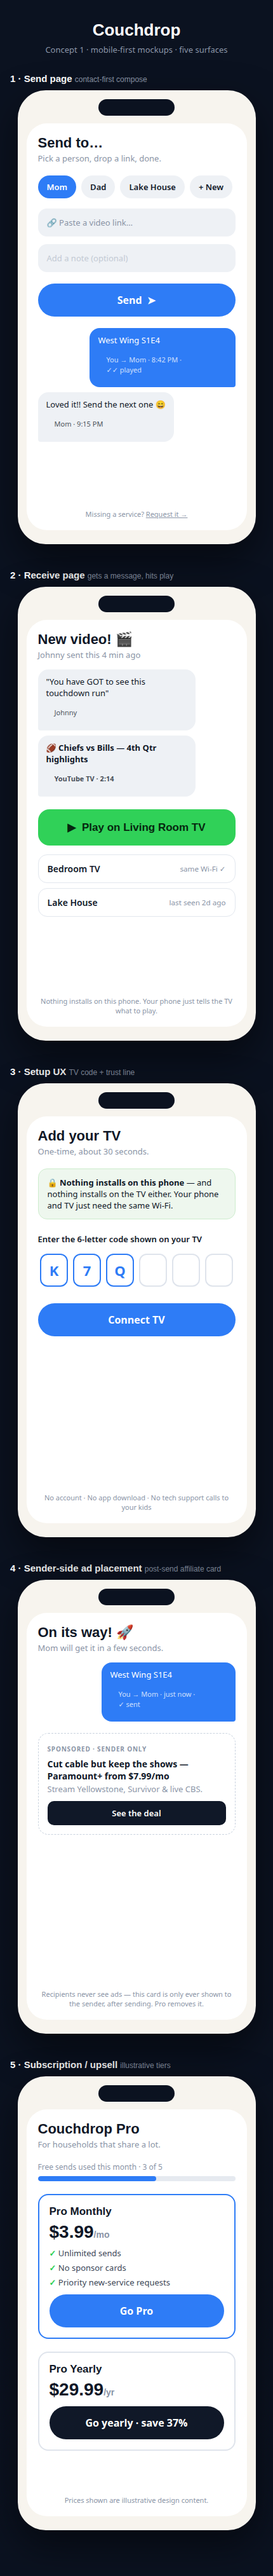
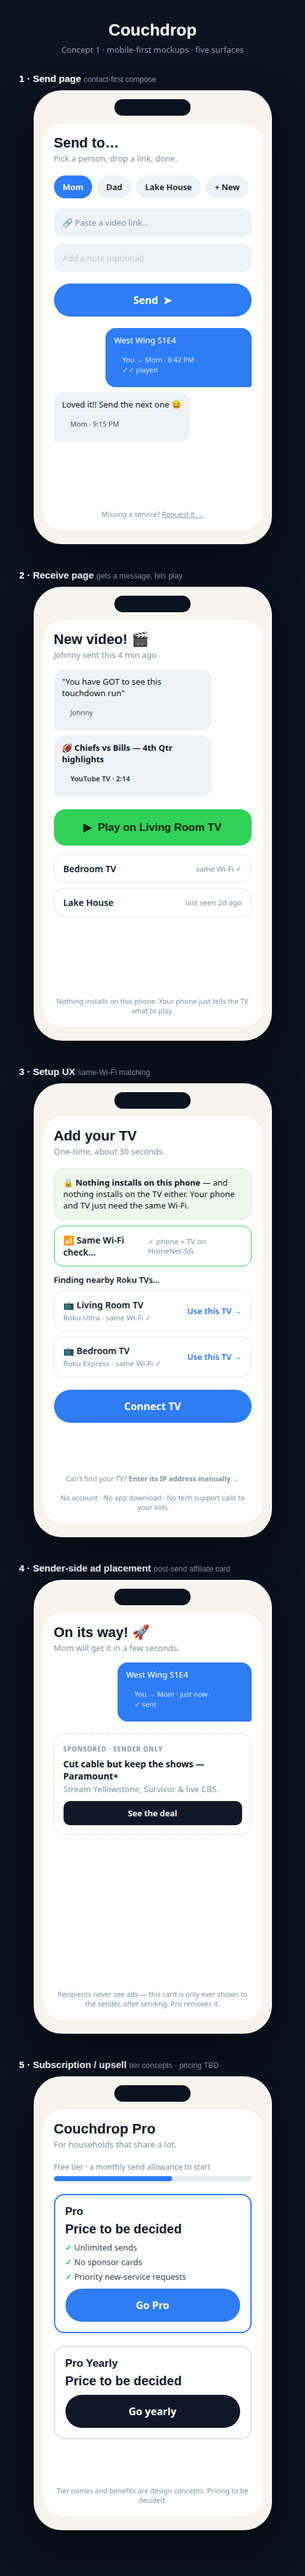
Mockups: v1-fit corrections (same-Wi-Fi setup, neutral pricing, priceless affiliate cards)

diff --git a/design/couchdrop-mockups.html b/design/couchdrop-mockups.html
@@ -79,34 +79,36 @@
   <div class="foot">Nothing installs on this phone. Your phone just tells the TV what to play.</div>
 </div></div></div>
 
-<div class="surface"><h2>3 · Setup UX <span>TV code + trust line</span></h2>
+<div class="surface"><h2>3 · Setup UX <span>same-Wi-Fi matching</span></h2>
 <div class="phone"><div class="notch"></div><div class="screen">
   <div class="hdr"><h3>Add your TV</h3><p>One-time, about 30 seconds.</p></div>
   <div class="trust">🔒 <b>Nothing installs on this phone</b> — and nothing installs on the TV either. Your phone and TV just need the same Wi-Fi.</div>
-  <p style="padding:12px 18px 0;font-size:13px;font-weight:600">Enter the 6-letter code shown on your TV</p>
-  <div class="codebox"><i class="fill">K</i><i class="fill">7</i><i class="fill">Q</i><i></i><i></i><i></i></div>
+  <div class="tvopt" style="border-color:var(--green)"><span>📶 Same Wi-Fi check…</span><small>✓ phone + TV on HomeNet-5G</small></div>
+  <p style="padding:4px 18px 8px;font-size:13px;font-weight:600">Finding nearby Roku TVs…</p>
+  <div class="tvopt"><span>📺 Living Room TV<br><small>Roku Ultra · same Wi-Fi ✓</small></span><span style="color:var(--blue);font-size:13px">Use this TV →</span></div>
+  <div class="tvopt"><span>📺 Bedroom TV<br><small>Roku Express · same Wi-Fi ✓</small></span><span style="color:var(--blue);font-size:13px">Use this TV →</span></div>
   <div class="sendbtn">Connect TV</div>
-  <div class="foot">No account · No app download · No tech support calls to your kids</div>
+  <div class="foot">Can't find your TV? <b>Enter its IP address manually →</b><br><br>No account · No app download · No tech support calls to your kids</div>
 </div></div></div>
 
 <div class="surface"><h2>4 · Sender-side ad placement <span>post-send affiliate card</span></h2>
 <div class="phone"><div class="notch"></div><div class="screen">
   <div class="hdr"><h3>On its way! 🚀</h3><p>Mom will get it in a few seconds.</p></div>
   <div class="thread"><div class="msg me">West Wing S1E4<div class="msg meta">You → Mom · just now · ✓ sent</div></div></div>
-  <div class="adcard"><span class="tag">SPONSORED · SENDER ONLY</span><b>Cut cable but keep the shows — Paramount+ from $7.99/mo</b><span style="color:var(--slate)">Stream Yellowstone, Survivor &amp; live CBS.</span><div class="cta">See the deal</div></div>
+  <div class="adcard"><span class="tag">SPONSORED · SENDER ONLY</span><b>Cut cable but keep the shows — Paramount+</b><span style="color:var(--slate)">Stream Yellowstone, Survivor &amp; live CBS.</span><div class="cta">See the deal</div></div>
   <div class="foot">Recipients never see ads — this card is only ever shown to the sender, after sending. Pro removes it.</div>
 </div></div></div>
 
-<div class="surface"><h2>5 · Subscription / upsell <span>illustrative tiers</span></h2>
+<div class="surface"><h2>5 · Subscription / upsell <span>tier concepts · pricing TBD</span></h2>
 <div class="phone"><div class="notch"></div><div class="screen">
   <div class="hdr"><h3>Couchdrop Pro</h3><p>For households that share a lot.</p></div>
-  <div class="meter">Free sends used this month · 3 of 5<div class="bar"><i></i></div></div>
-  <div class="plan"><h4>Pro Monthly</h4><div class="price">$3.99<span style="font-size:14px;color:var(--slate)">/mo</span></div>
+  <div class="meter">Free tier · a monthly send allowance to start<div class="bar"><i></i></div></div>
+  <div class="plan"><h4>Pro</h4><div class="price" style="font-size:20px">Price to be decided</div>
     <ul><li>Unlimited sends</li><li>No sponsor cards</li><li>Priority new-service requests</li></ul>
     <div class="sendbtn" style="margin:10px 0 0">Go Pro</div></div>
-  <div class="plan" style="border-color:#dfe4ec"><h4>Pro Yearly</h4><div class="price">$29.99<span style="font-size:14px;color:var(--slate)">/yr</span></div>
-    <div class="sendbtn" style="margin:10px 0 0;background:var(--ink)">Go yearly · save 37%</div></div>
-  <div class="foot">Prices shown are illustrative design content.</div>
+  <div class="plan" style="border-color:#dfe4ec"><h4>Pro Yearly</h4><div class="price" style="font-size:20px">Price to be decided</div>
+    <div class="sendbtn" style="margin:10px 0 0;background:var(--ink)">Go yearly</div></div>
+  <div class="foot">Tier names and benefits are design concepts. Pricing to be decided.</div>
 </div></div></div>
 
 </body></html>

diff --git a/design/primetime-mockups.html b/design/primetime-mockups.html
@@ -92,10 +92,13 @@
   <div class="hdr"><h3>Tune in<br>your TV.</h3><p>Three steps, no downloads.</p></div>
   <div class="steps">
     <div class="step"><div class="n">1</div><p><b>Same Wi-Fi.</b> Phone and TV on the same network — that's the whole trick.</p></div>
-    <div class="step"><div class="n">2</div><p><b>Read the code</b> on your TV screen:</p></div>
+    <div class="step"><div class="n">2</div><p><b>We find your Roku.</b> Pick it from the list — no code, no typing.</p></div>
   </div>
-  <div class="code">K 7 Q 2 X A</div>
-  <div class="steps"><div class="step"><div class="n">3</div><p><b>Hit connect.</b> Done forever — the TV remembers you.</p></div></div>
+  <div style="padding:0 20px;display:flex;flex-direction:column;gap:8px">
+    <div class="tv sel"><span>📺 Living Room TV<br><small>Roku Ultra · same Wi-Fi ✓</small></span><span style="color:var(--amber)">✓</span></div>
+    <div class="tv"><span>📺 Bedroom TV<br><small>Roku Express · same Wi-Fi ✓</small></span></div>
+  </div>
+  <div class="steps"><div class="step"><div class="n">3</div><p><b>Hit connect.</b> Done forever — the TV remembers you. Can't find it? Enter the TV's IP manually.</p></div></div>
   <div class="cta">CONNECT TV</div>
   <div class="foot">Nothing installs. Not on the phone, not on the TV.</div>
 </div></div></div>
@@ -104,20 +107,20 @@
 <div class="phone"><div class="notch"></div><div class="screen">
   <div class="kicker" style="color:var(--green,#30D158)">✓ TRANSMISSION COMPLETE</div>
   <div class="hdr"><h3>It's on<br>the guide.</h3><p>Mom's TV gets it in a few seconds.</p></div>
-  <div class="adcard"><span class="tag">SPONSORED · SHOWN TO SENDERS ONLY</span><b>Hulu (With Ads) — $9.99/mo</b><p>Thousands of shows the night after they air. Start your trial.</p><div class="cta2">Claim the offer</div></div>
+  <div class="adcard"><span class="tag">SPONSORED · SHOWN TO SENDERS ONLY</span><b>Hulu (With Ads) — the shows everyone's talking about</b><p>Thousands of shows the night after they air. Start your trial.</p><div class="cta2">Claim the offer</div></div>
   <div class="foot">Recipients never see sponsor cards — the receive flow stays ad-free. Pro removes cards for senders too.</div>
 </div></div></div>
 
-<div class="surface"><h2>5 · SUBSCRIPTION / UPSELL <span>illustrative tiers</span></h2>
+<div class="surface"><h2>5 · SUBSCRIPTION / UPSELL <span>tier concepts · pricing TBD</span></h2>
 <div class="phone"><div class="notch"></div><div class="screen">
   <div class="kicker">▲ PRIMETIME PASS</div>
   <div class="hdr"><h3>Never miss<br>a premiere.</h3><p>Unlimited listings, zero sponsor cards.</p></div>
-  <div class="tier hot"><h4>YEARLY</h4><div class="price">$29.99<span style="font-size:14px;color:var(--gray)">/yr</span></div>
+  <div class="tier hot"><h4>YEARLY</h4><div class="price" style="font-size:22px">Price TBD</div>
     <ul><li>Unlimited sends</li><li>No sponsor cards</li><li>Your requests jump the queue</li></ul>
-    <div class="cta" style="margin:10px 0 0">GO YEARLY · SAVE 37%</div></div>
-  <div class="tier"><h4>MONTHLY</h4><div class="price">$3.99<span style="font-size:14px;color:var(--gray)">/mo</span></div>
+    <div class="cta" style="margin:10px 0 0">GO YEARLY</div></div>
+  <div class="tier"><h4>MONTHLY</h4><div class="price" style="font-size:22px">Price TBD</div>
     <div class="cta" style="margin:10px 0 0;background:#2a2a30;color:#fff">GO MONTHLY</div></div>
-  <div class="foot">Free tier: 5 sends in month one. Prices illustrative design content.</div>
+  <div class="foot">Free tier keeps a monthly send allowance. Prices to be decided.</div>
 </div></div></div>
 
 </body></html>
